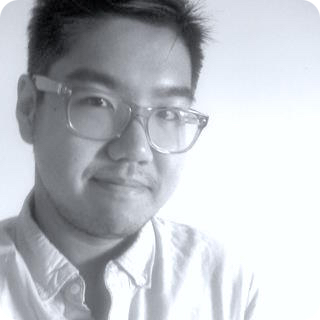
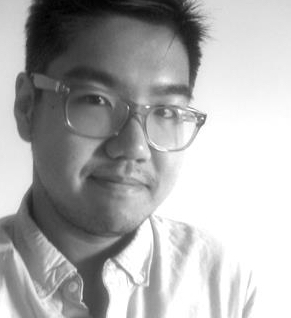
update graphics

diff --git a/_sass/_variables.scss b/_sass/_variables.scss
@@ -140,7 +140,7 @@ $right-sidebar-width-wide   : 400px !default;
    Other
    ========================================================================== */
 
-$border-radius              : 4px !default;
+$border-radius              : 1px !default;
 $box-shadow                 : 0 1px 1px rgba(0, 0, 0, 0.125) !default;
 $navicon-width              : 1.5rem !default;
 $navicon-height             : 0.25rem !default;
